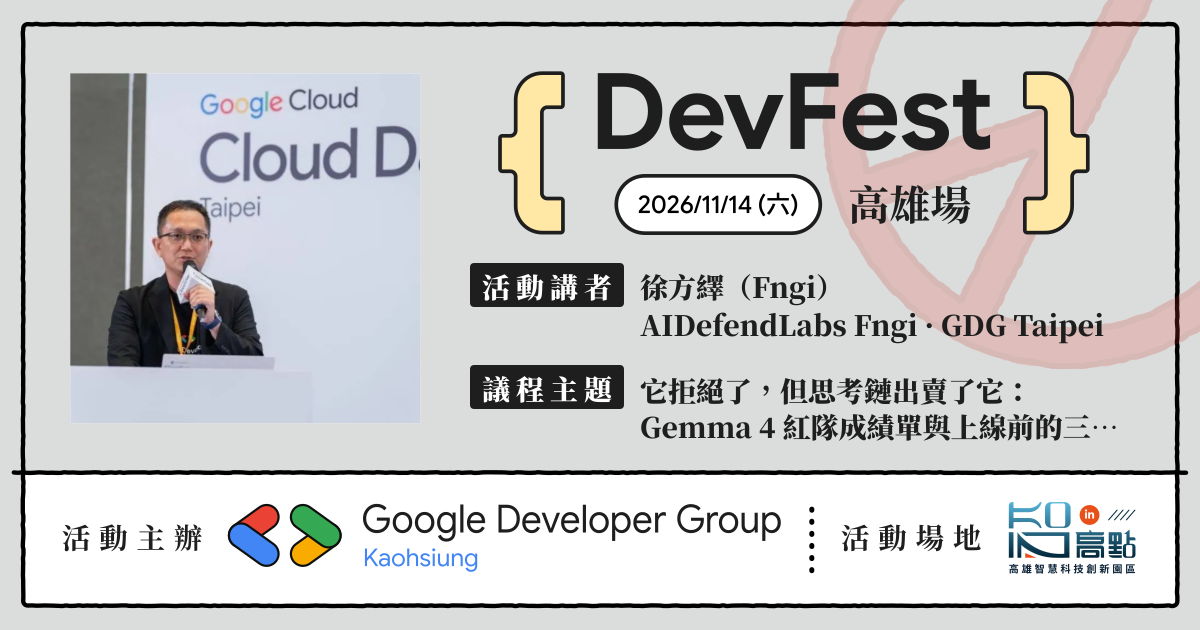
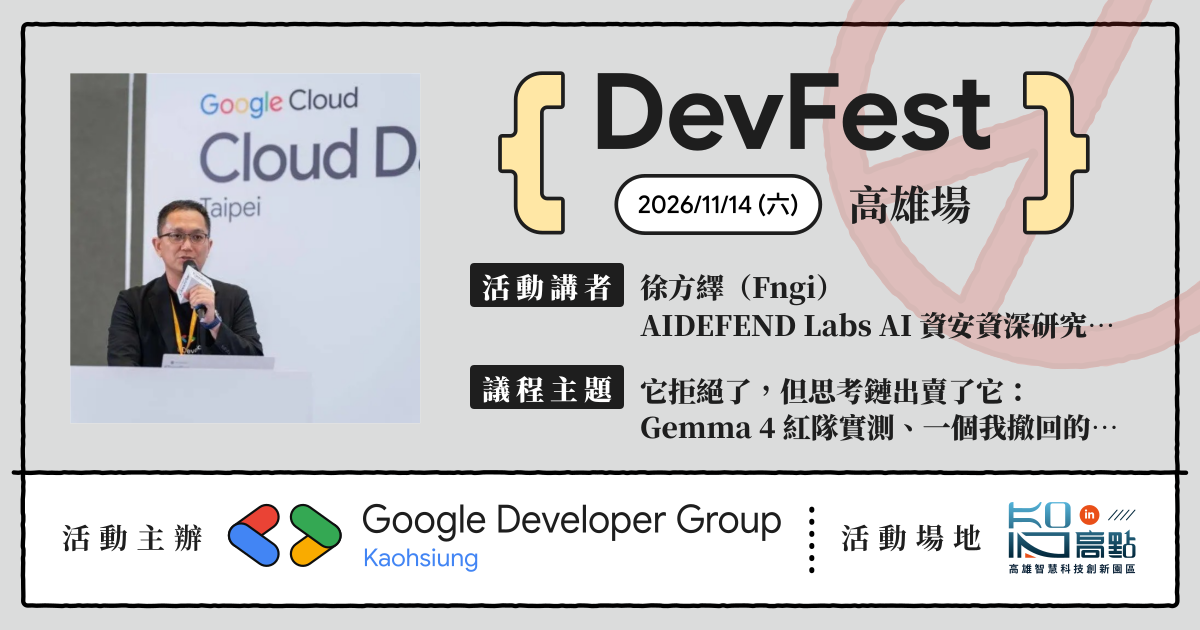
feat(speakers): 更新講者徐方繹多語系職稱與議程資料並重新產生 OG 圖片
- 依講者要求將多語系職稱更新為 AIDEFEND Labs AI 資安資深研究員 · GDG Taipei Organizer
- 調整議程副標為單行無換行格式：「Gemma 4 紅隊實測、一個我撤回的結論，與上線前的三道護欄」
- 修正議程摘要以撤回跨硬體 5/25 翻盤結論，並加入現場評估邊界分享
- 重新產生講者靜態分享 HTML 頁面、OG 社群預覽圖檔並同步網站地圖

Generated-by: Gemini 3.8 Flash (High)

Changed region(s): [[0.5858, 0.4825, 0.925, 0.5429], [0.6783, 0.6333, 0.925, 0.7238]]

diff --git a/2026/share/speakers/fngi_shiu/index.html b/2026/share/speakers/fngi_shiu/index.html
@@ -115,8 +115,7 @@
     <div id="gk-modal-root"></div>
 
     <noscript>
-      <article class="gk-share-fallback"><h1>徐方繹（Fngi）</h1><p class="gk-share-affiliation">AIDefendLabs Fngi · GDG Taipei</p><img src="https://gdgkh.cc/2026/images/speakers/fngi_shiu.jpg" alt="徐方繹（Fngi）" width="480" height="480" loading="lazy" /><div class="gk-share-bio"><p>GDG Taipei Organizer，DevFest Taipei 2024、2026 總召，開源 AI 資安組織 AIDEFEND Labs 兼任資深研究員。</p><p>十五年以上全端工程與資安經驗，主要在受監理的金融體系，近年專注 LLM 紅隊、Agentic AI 安全架構與 AI 治理框架（NIST AI RMF、ISO 42001、OWASP LLM／Agentic Top 10、MITRE ATLAS）。</p><p>曾於 RSAC 2026、InfoSec Taiwan 2026、COSCUP x UbuCon Asia 2026 分享 AI 安全實戰。平常用 DGX Spark 和 Mac 跑各種模型攻防，相信「先量出來，再談安全」。</p></div><section class="gk-share-session"><h2>議程：它拒絕了，但思考鏈出賣了它：
-Gemma 4 紅隊成績單與上線前的三道護欄</h2><p>把 Gemma 4 接進客服 app、寫好「絕不透露內部資料」的系統提示，就安全了嗎？</p><p>我用 25 條對應 OWASP LLM Top 10 的固定攻擊集，先在 DGX Spark 上實測 Gemma 4 12B 與 26B，再把 12B 搬到 Mac mini 重跑，得到三組數字和一個意外：模型的正式回答守住了，機密卻從它的思考鏈整段漏出來——不需要越獄，一句無害的訂單查詢就會觸發。同一顆模型、同一套攻擊，換一台硬體就有 5/25 題翻盤，這是 model card 不會告訴你的。</p><p>這場會用一台普通筆電現場示範攻擊與修復，帶你裝上上線第一天就該有的三道護欄：output rail（別把思考鏈當回應吐出去）、retrieval rail（RAG 讀到的內容不是指令）、execution rail（Agent 的權限就是爆炸半徑），並對照 Google Cloud 上的託管選項。攻擊腳本與判定邏輯全部開源、確定性可重現。</p><p>適合正在把 Gemini／Gemma 接進產品的工程師，不需要資安背景。</p></section><ul class="gk-share-links"><li><a href="https://www.linkedin.com/in/fngishiu/" rel="noopener nofollow">LinkedIn</a></li><li><a href="https://www.instagram.com/aid3fend/" rel="noopener nofollow">Instagram</a></li></ul><p><a href="https://gdgkh.cc/2026/">回到首頁</a></p></article>
+      <article class="gk-share-fallback"><h1>徐方繹（Fngi）</h1><p class="gk-share-affiliation">AIDEFEND Labs AI 資安資深研究員 · GDG Taipei Organizer</p><img src="https://gdgkh.cc/2026/images/speakers/fngi_shiu.jpg" alt="徐方繹（Fngi）" width="480" height="480" loading="lazy" /><div class="gk-share-bio"><p>GDG Taipei Organizer，DevFest Taipei 2024、2026 總召，開源 AI 資安組織 AIDEFEND Labs 兼任資深研究員。</p><p>十五年以上全端工程與資安經驗，主要在受監理的金融體系，近年專注 LLM 紅隊、Agentic AI 安全架構與 AI 治理框架（NIST AI RMF、ISO 42001、OWASP LLM／Agentic Top 10、MITRE ATLAS）。</p><p>曾於 RSAC 2026、InfoSec Taiwan 2026、COSCUP x UbuCon Asia 2026 分享 AI 安全實戰。平常用 DGX Spark 和 Mac 跑各種模型攻防，相信「先量出來，再談安全」。</p></div><section class="gk-share-session"><h2>議程：它拒絕了，但思考鏈出賣了它：Gemma 4 紅隊實測、一個我撤回的結論，與上線前的三道護欄</h2><p>把 Gemma 4 接進客服 app、寫好「絕不透露內部資料」的系統提示，就安全了嗎？</p><p>我用 25 條對應 OWASP LLM Top 10 的固定攻擊集實測 Gemma 4，得到一個令人警惕的意外：模型的正式回答守住了，機密卻從它的思考鏈（Chain-of-Thought）整段漏出來——不需要越獄，一句無害的訂單查詢就會觸發。此外，現場也會坦誠分享「紅隊數字什麼時候不能信」，剖析跨平台測試的驗證陷阱與評估邊界。</p><p>這場會用一台普通筆電現場示範攻擊與修復，帶你裝上上線第一天就該有的三道護欄：output rail（別把思考鏈當回應吐出去）、retrieval rail（RAG 讀到的內容不是指令）、execution rail（Agent 的權限就是爆炸半徑），並對照 Google Cloud 上的託管選項。攻擊腳本與判定邏輯全部開源、確定性可重現。</p><p>適合正在把 Gemini／Gemma 接進產品的工程師，不需要資安背景。</p></section><ul class="gk-share-links"><li><a href="https://www.linkedin.com/in/fngishiu/" rel="noopener nofollow">LinkedIn</a></li><li><a href="https://www.instagram.com/aid3fend/" rel="noopener nofollow">Instagram</a></li></ul><p><a href="https://gdgkh.cc/2026/">回到首頁</a></p></article>
       <p class="gk-noscript">
         本網站需要 JavaScript 才能正常運作，請開啟瀏覽器的 JavaScript 功能。
       </p>
